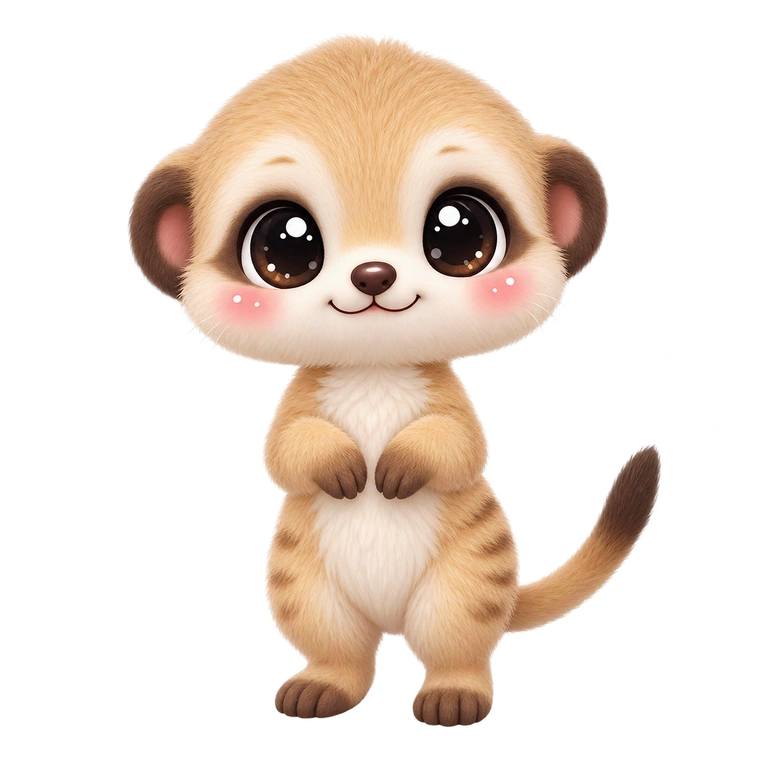
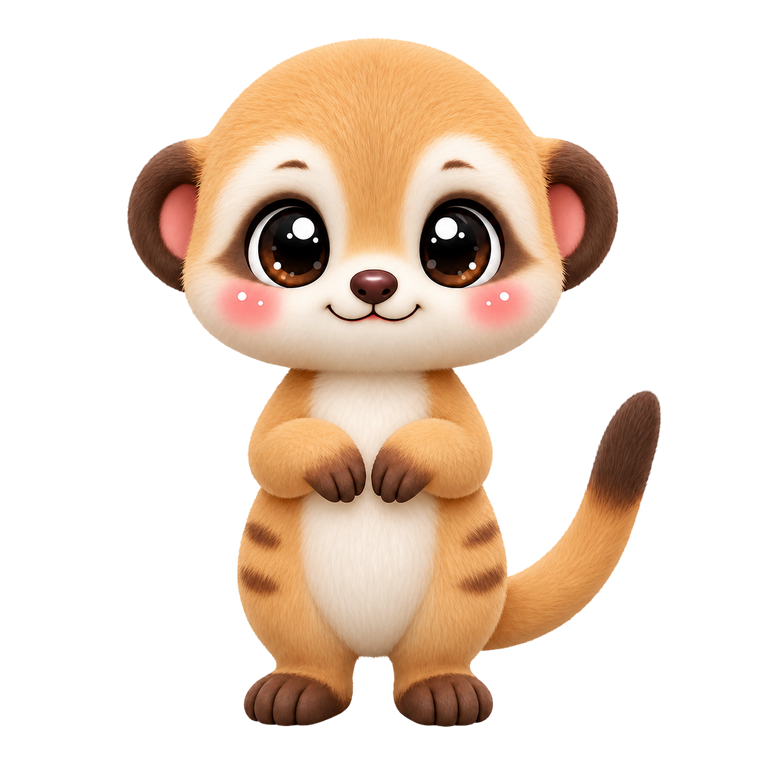
รอบ 1260: แปลงภาพสัตว์ baby normal 9 ชนิดเป็น Soft Cuboid Chibi 3D

Changed region(s): [[0.1562, 0.0312, 0.875, 0.9688]]

diff --git a/handoff/TASKS.md b/handoff/TASKS.md
@@ -27,7 +27,11 @@
 #### 🏍 งานโลกใหม่: ขับมอเตอร์ไซค์/รถยนต์ (30 ก.ค.)
 - ✅ ชนหมา = ปรับ 10 เหรียญ ต่อครั้ง — เสร็จรอบ 830
 
-### 📌 สรุปสถานะล่าสุด (22 ส.ค.) — อ่านก่อน
+### 📌 สรุปสถานะล่าสุด (23 ส.ค.) — อ่านก่อน
+- **รอบ 1260 · แปลงภาพ baby normal 9 ชนิดเป็น Soft Cuboid Chibi 3D:** ควาย แมว หมา มังกร ช้าง เมียร์แคต กวางซีกา ทูแคน และ T. rex ใช้ชื่อเดิมใน `img/animal/*_baby_normal.webp`
+- คง canvas 768×768/lossless WebP RGBA/anchor+ฐานเท้าเดิม; Alpha จริง 0–255, silhouette เดียว, มุมโปร่งใส และไม่มีพื้น เงา ข้อความ หรือขอบสี; ไม่แตะ `css/petshopping3d.css`
+- visual QA ทีละสัตว์บน 812×375 พื้นสว่าง/มืด + source↔dist SHA-256 ทั้ง 9 ผ่าน; runtime browser ถูก Windows ACL บล็อกตามข้อจำกัดเดิม
+- pet asset catalog+integration ผ่าน; `test_petshopping3d.js` ยัง fail baseline GPS route เดิม; production build 9,098 ไฟล์และ PWA/cache/TWA validator ผ่าน
 - **รอบ 1259 · แก้ภาพตัวละคร Sky ไม่ขึ้นด้วย thumbnail เบา:** ต้นตอหน้าเลือกดึง atlas 6 ใบรวม 3.29MB; สร้าง WebP 174×348 q80 โปร่งใส 6 ใบรวม 80,302B เบาลง 41.9× แต่คมถึง 3× ของขนาดแสดงจริง (img/characters/*_thumb.webp)
 - picker ก่อนเข้าและ picker ในโลกใช้ thumb แบบ contain รักษาสัดส่วน; atlas นิ่ง/animation ตัวเต็มและ renderer/network เดิมไม่เปลี่ยน (js/skyplay3d.js, js/ui.js, css/skyplay3d.css)
 - syntax+Sky/Beta regression+asset dimension/alpha/silhouette/budget QA+production build 9,098 ไฟล์+PWA manifest+source/dist thumb SHA-256 ผ่าน; browser visual QA ยังถูก Windows ACL บล็อก
